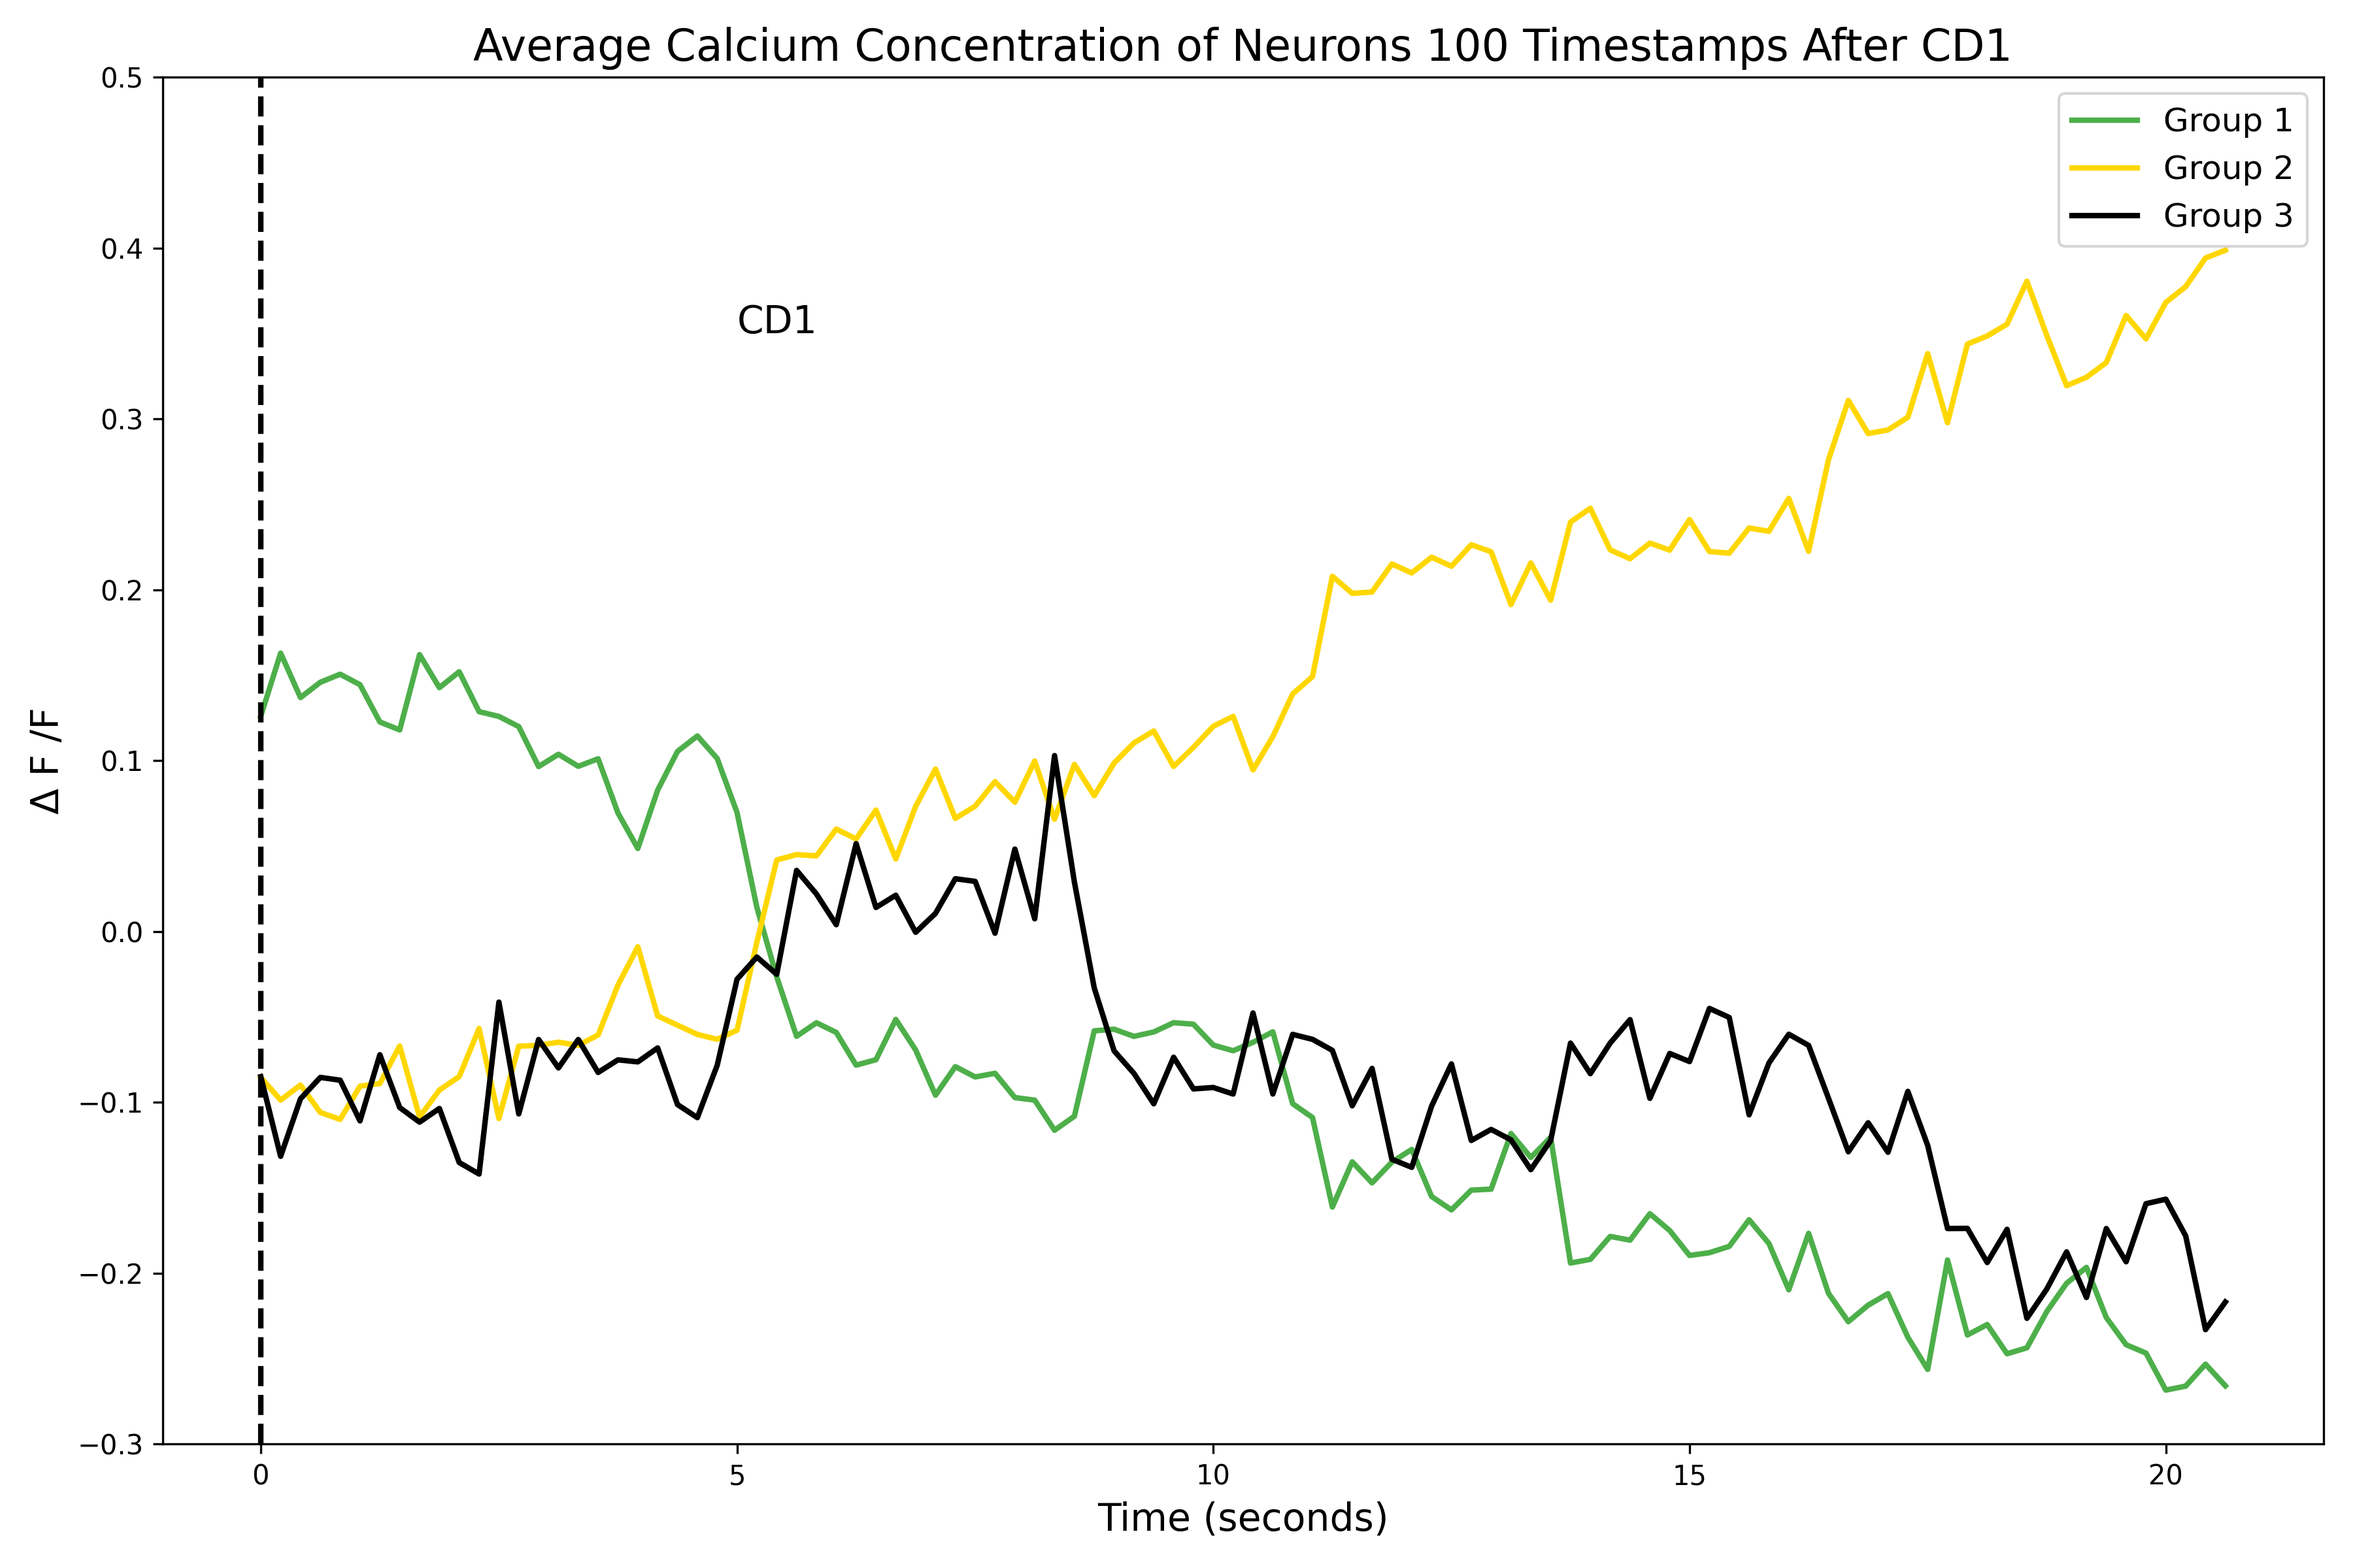
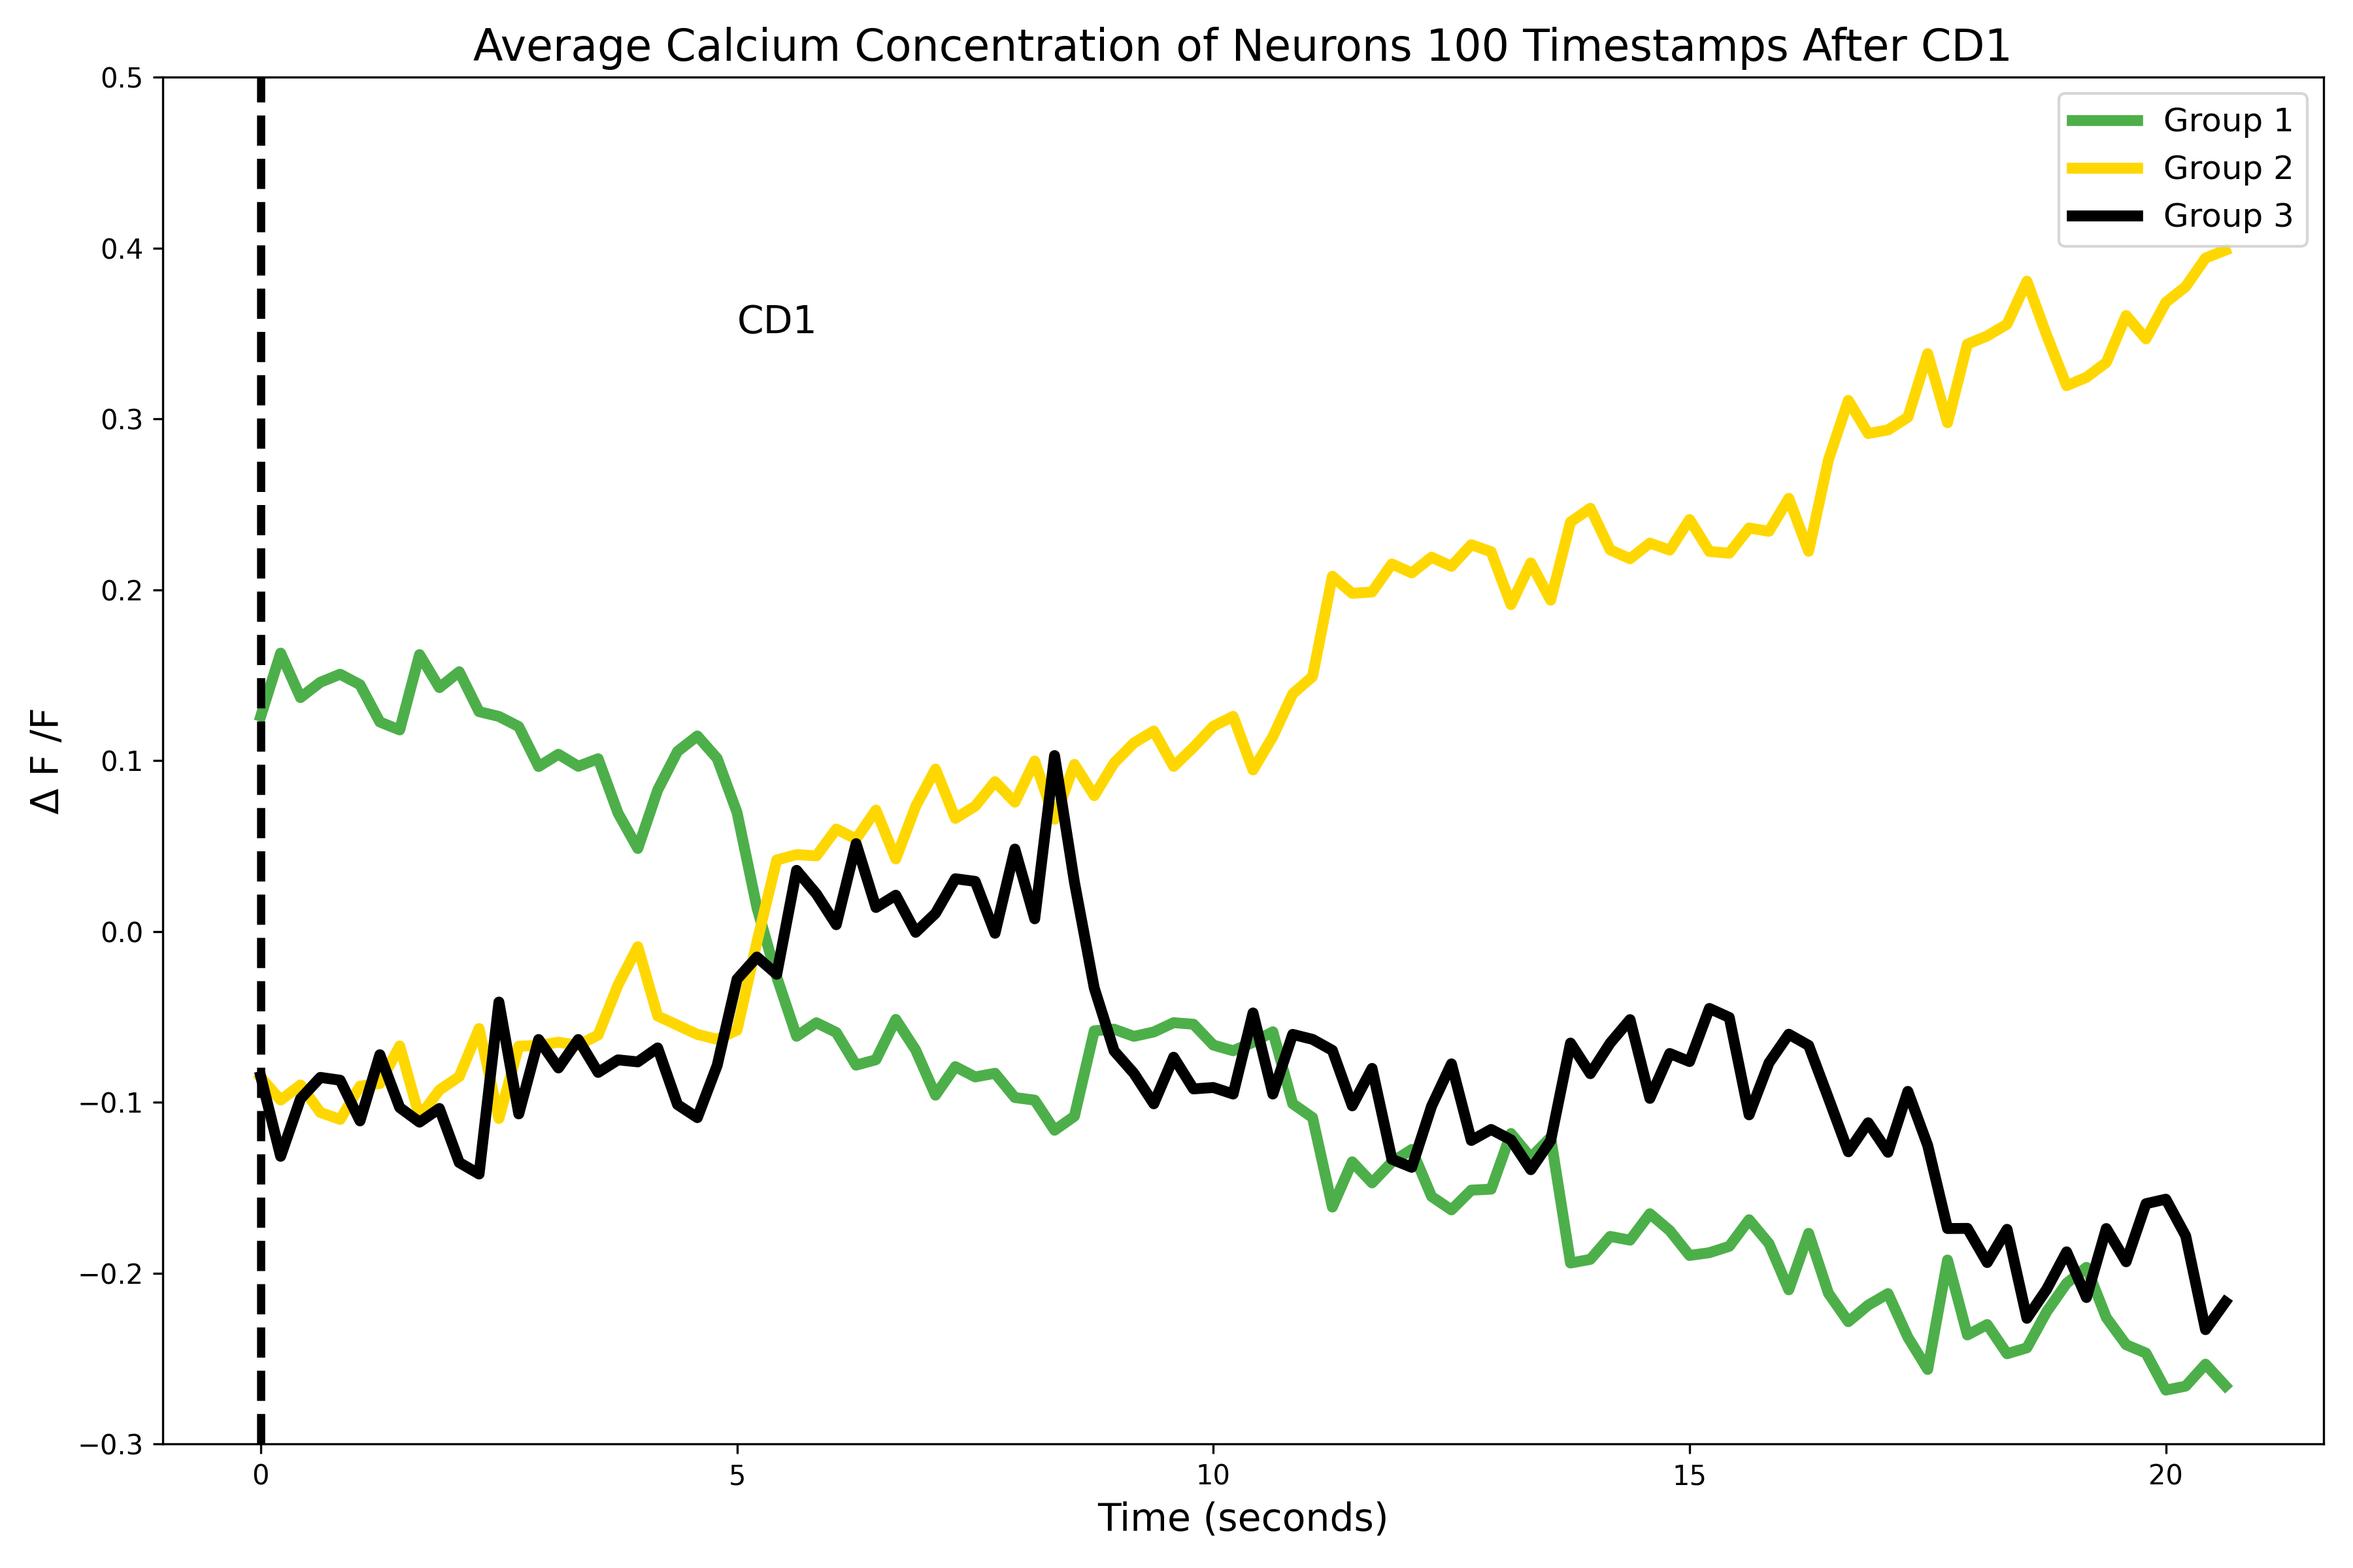
2025

diff --git a/Visualization/src/show_trace.py b/Visualization/src/show_trace.py
@@ -232,30 +232,30 @@ def plot_trace_before_cd1(data, cd1_index, n_stamps, output_path, show_shadow=Tr
     # 使用统一的颜色方案绘制三条曲线及其阴影区域
     # Group 1 - 绿色
     plt.plot(plot_data['relative_time'], plot_data['group1_avg'], 
-             color=GROUP_COLORS['group1'], label='Group 1', linewidth=2)
+             color=GROUP_COLORS['group1'], label='Group 1', linewidth=4)
     if show_shadow:
         plt.fill_between(plot_data['relative_time'], 
                          plot_data['group1_avg'] - plot_data['group1_std'],
                          plot_data['group1_avg'] + plot_data['group1_std'],
-                         color=GROUP_COLORS['group1'], alpha=0.2)
+                         color=GROUP_COLORS['group1'], alpha=0.25)
     
     # Group 2 - 黄色
     plt.plot(plot_data['relative_time'], plot_data['group2_avg'], 
-             color=GROUP_COLORS['group2'], label='Group 2', linewidth=2)
+             color=GROUP_COLORS['group2'], label='Group 2', linewidth=4)
     if show_shadow:
         plt.fill_between(plot_data['relative_time'], 
                          plot_data['group2_avg'] - plot_data['group2_std'],
                          plot_data['group2_avg'] + plot_data['group2_std'],
-                         color=GROUP_COLORS['group2'], alpha=0.2)
+                         color=GROUP_COLORS['group2'], alpha=0.25)
     
     # Group 3 - 黑色
     plt.plot(plot_data['relative_time'], plot_data['group3_avg'], 
-             color=GROUP_COLORS['group3'], label='Group 3', linewidth=2)
+             color=GROUP_COLORS['group3'], label='Group 3', linewidth=4)
     if show_shadow:
         plt.fill_between(plot_data['relative_time'], 
                          plot_data['group3_avg'] - plot_data['group3_std'],
                          plot_data['group3_avg'] + plot_data['group3_std'],
-                         color=GROUP_COLORS['group3'], alpha=0.2)
+                         color=GROUP_COLORS['group3'], alpha=0.25)
     
     # 添加图例和标签
     plt.legend(fontsize=12)
@@ -267,7 +267,7 @@ def plot_trace_before_cd1(data, cd1_index, n_stamps, output_path, show_shadow=Tr
     plt.ylim([-0.3, 0.5])
     
     # 添加垂直线标记CD1出现时间点
-    plt.axvline(x=plot_data['relative_time'].max(), color='k', linestyle='--', linewidth=2)
+    plt.axvline(x=plot_data['relative_time'].max(), color='k', linestyle='--', linewidth=3)
     plt.text(plot_data['relative_time'].max()-5, 0.35, 'CD1', fontsize=14)
     
     # 网格线
@@ -317,30 +317,30 @@ def plot_trace_after_cd1(data, cd1_index, n_stamps, output_path, show_shadow=Tru
     # 使用统一的颜色方案绘制三条曲线及其阴影区域
     # Group 1 - 绿色
     plt.plot(plot_data['relative_time'], plot_data['group1_avg'], 
-             color=GROUP_COLORS['group1'], label='Group 1', linewidth=2)
+             color=GROUP_COLORS['group1'], label='Group 1', linewidth=4)
     if show_shadow:
         plt.fill_between(plot_data['relative_time'], 
                          plot_data['group1_avg'] - plot_data['group1_std'],
                          plot_data['group1_avg'] + plot_data['group1_std'],
-                         color=GROUP_COLORS['group1'], alpha=0.2)
+                         color=GROUP_COLORS['group1'], alpha=0.25)
     
     # Group 2 - 黄色
     plt.plot(plot_data['relative_time'], plot_data['group2_avg'], 
-             color=GROUP_COLORS['group2'], label='Group 2', linewidth=2)
+             color=GROUP_COLORS['group2'], label='Group 2', linewidth=4)
     if show_shadow:
         plt.fill_between(plot_data['relative_time'], 
                          plot_data['group2_avg'] - plot_data['group2_std'],
                          plot_data['group2_avg'] + plot_data['group2_std'],
-                         color=GROUP_COLORS['group2'], alpha=0.2)
+                         color=GROUP_COLORS['group2'], alpha=0.25)
     
     # Group 3 - 黑色
     plt.plot(plot_data['relative_time'], plot_data['group3_avg'], 
-             color=GROUP_COLORS['group3'], label='Group 3', linewidth=2)
+             color=GROUP_COLORS['group3'], label='Group 3', linewidth=4)
     if show_shadow:
         plt.fill_between(plot_data['relative_time'], 
                          plot_data['group3_avg'] - plot_data['group3_std'],
                          plot_data['group3_avg'] + plot_data['group3_std'],
-                         color=GROUP_COLORS['group3'], alpha=0.2)
+                         color=GROUP_COLORS['group3'], alpha=0.25)
     
     # 添加图例和标签
     plt.legend(fontsize=12)
@@ -352,7 +352,7 @@ def plot_trace_after_cd1(data, cd1_index, n_stamps, output_path, show_shadow=Tru
     plt.ylim([-0.3, 0.5])
     
     # 添加垂直线标记CD1出现时间点
-    plt.axvline(x=0, color='k', linestyle='--', linewidth=2)
+    plt.axvline(x=0, color='k', linestyle='--', linewidth=3)
     plt.text(5, 0.35, 'CD1', fontsize=14)
     
     # 网格线
@@ -416,58 +416,58 @@ def plot_combined_cd1_trace(data, cd1_index, before_stamps, after_stamps, output
     # 绘制CD1前的轨迹
     # Group 1 - 绿色
     plt.plot(before_data['relative_time'], before_data['group1_avg'], 
-             color=GROUP_COLORS['group1'], label='Group 1', linewidth=2)
+             color=GROUP_COLORS['group1'], label='Group 1', linewidth=4)
     if show_shadow:
         plt.fill_between(before_data['relative_time'], 
                          before_data['group1_avg'] - before_data['group1_std'],
                          before_data['group1_avg'] + before_data['group1_std'],
-                         color=GROUP_COLORS['group1'], alpha=0.2)
+                         color=GROUP_COLORS['group1'], alpha=0.25)
     
     # Group 2 - 黄色
     plt.plot(before_data['relative_time'], before_data['group2_avg'], 
-             color=GROUP_COLORS['group2'], label='Group 2', linewidth=2)
+             color=GROUP_COLORS['group2'], label='Group 2', linewidth=4)
     if show_shadow:
         plt.fill_between(before_data['relative_time'], 
                          before_data['group2_avg'] - before_data['group2_std'],
                          before_data['group2_avg'] + before_data['group2_std'],
-                         color=GROUP_COLORS['group2'], alpha=0.2)
+                         color=GROUP_COLORS['group2'], alpha=0.25)
     
     # Group 3 - 黑色
     plt.plot(before_data['relative_time'], before_data['group3_avg'], 
-             color=GROUP_COLORS['group3'], label='Group 3', linewidth=2)
+             color=GROUP_COLORS['group3'], label='Group 3', linewidth=4)
     if show_shadow:
         plt.fill_between(before_data['relative_time'], 
                          before_data['group3_avg'] - before_data['group3_std'],
                          before_data['group3_avg'] + before_data['group3_std'],
-                         color=GROUP_COLORS['group3'], alpha=0.2)
+                         color=GROUP_COLORS['group3'], alpha=0.25)
     
     # 绘制CD1后的轨迹
     # Group 1 - 绿色
     plt.plot(after_data['relative_time'], after_data['group1_avg'], 
-             color=GROUP_COLORS['group1'], linewidth=2)
+             color=GROUP_COLORS['group1'], linewidth=4)
     if show_shadow:
         plt.fill_between(after_data['relative_time'], 
                          after_data['group1_avg'] - after_data['group1_std'],
                          after_data['group1_avg'] + after_data['group1_std'],
-                         color=GROUP_COLORS['group1'], alpha=0.2)
+                         color=GROUP_COLORS['group1'], alpha=0.25)
     
     # Group 2 - 黄色
     plt.plot(after_data['relative_time'], after_data['group2_avg'], 
-             color=GROUP_COLORS['group2'], linewidth=2)
+             color=GROUP_COLORS['group2'], linewidth=4)
     if show_shadow:
         plt.fill_between(after_data['relative_time'], 
                          after_data['group2_avg'] - after_data['group2_std'],
                          after_data['group2_avg'] + after_data['group2_std'],
-                         color=GROUP_COLORS['group2'], alpha=0.2)
+                         color=GROUP_COLORS['group2'], alpha=0.25)
     
     # Group 3 - 黑色
     plt.plot(after_data['relative_time'], after_data['group3_avg'], 
-             color=GROUP_COLORS['group3'], linewidth=2)
+             color=GROUP_COLORS['group3'], linewidth=4)
     if show_shadow:
         plt.fill_between(after_data['relative_time'], 
                          after_data['group3_avg'] - after_data['group3_std'],
                          after_data['group3_avg'] + after_data['group3_std'],
-                         color=GROUP_COLORS['group3'], alpha=0.2)
+                         color=GROUP_COLORS['group3'], alpha=0.25)
     
     # 添加图例和标签
     plt.legend(fontsize=12)
@@ -479,7 +479,7 @@ def plot_combined_cd1_trace(data, cd1_index, before_stamps, after_stamps, output
     plt.ylim([-0.3, 0.5])
     
     # 添加垂直线标记CD1出现时间点
-    plt.axvline(x=0, color='k', linestyle='--', linewidth=2)
+    plt.axvline(x=0, color='k', linestyle='--', linewidth=3)
     plt.text(0.05, 0.35, 'CD1', fontsize=14)
     
     # 在图中标记CD1前后
